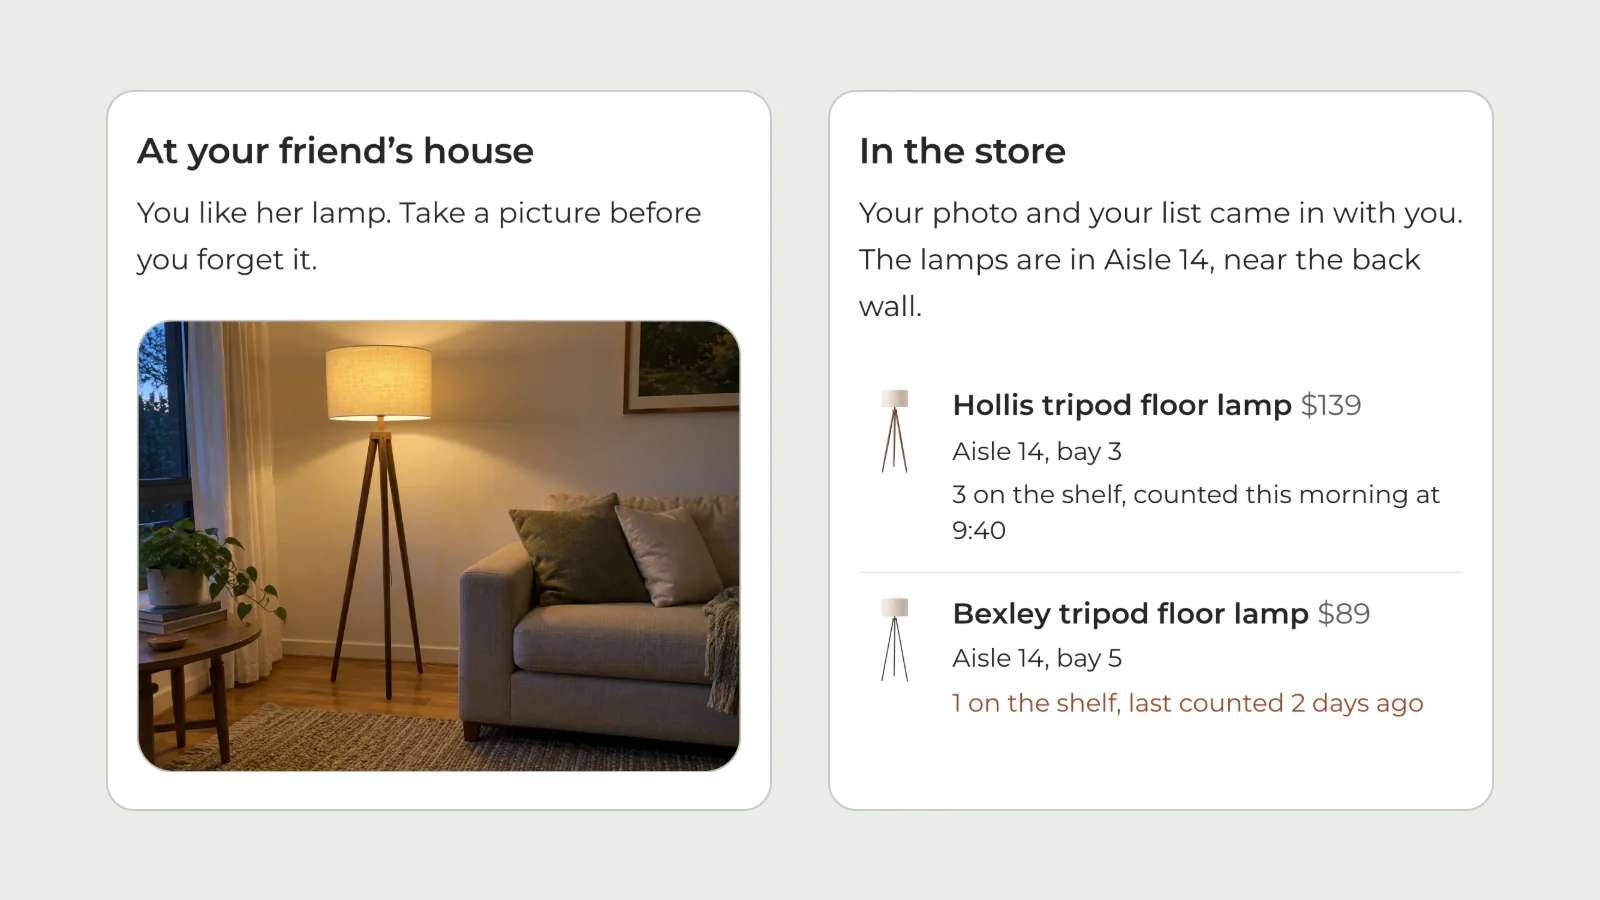
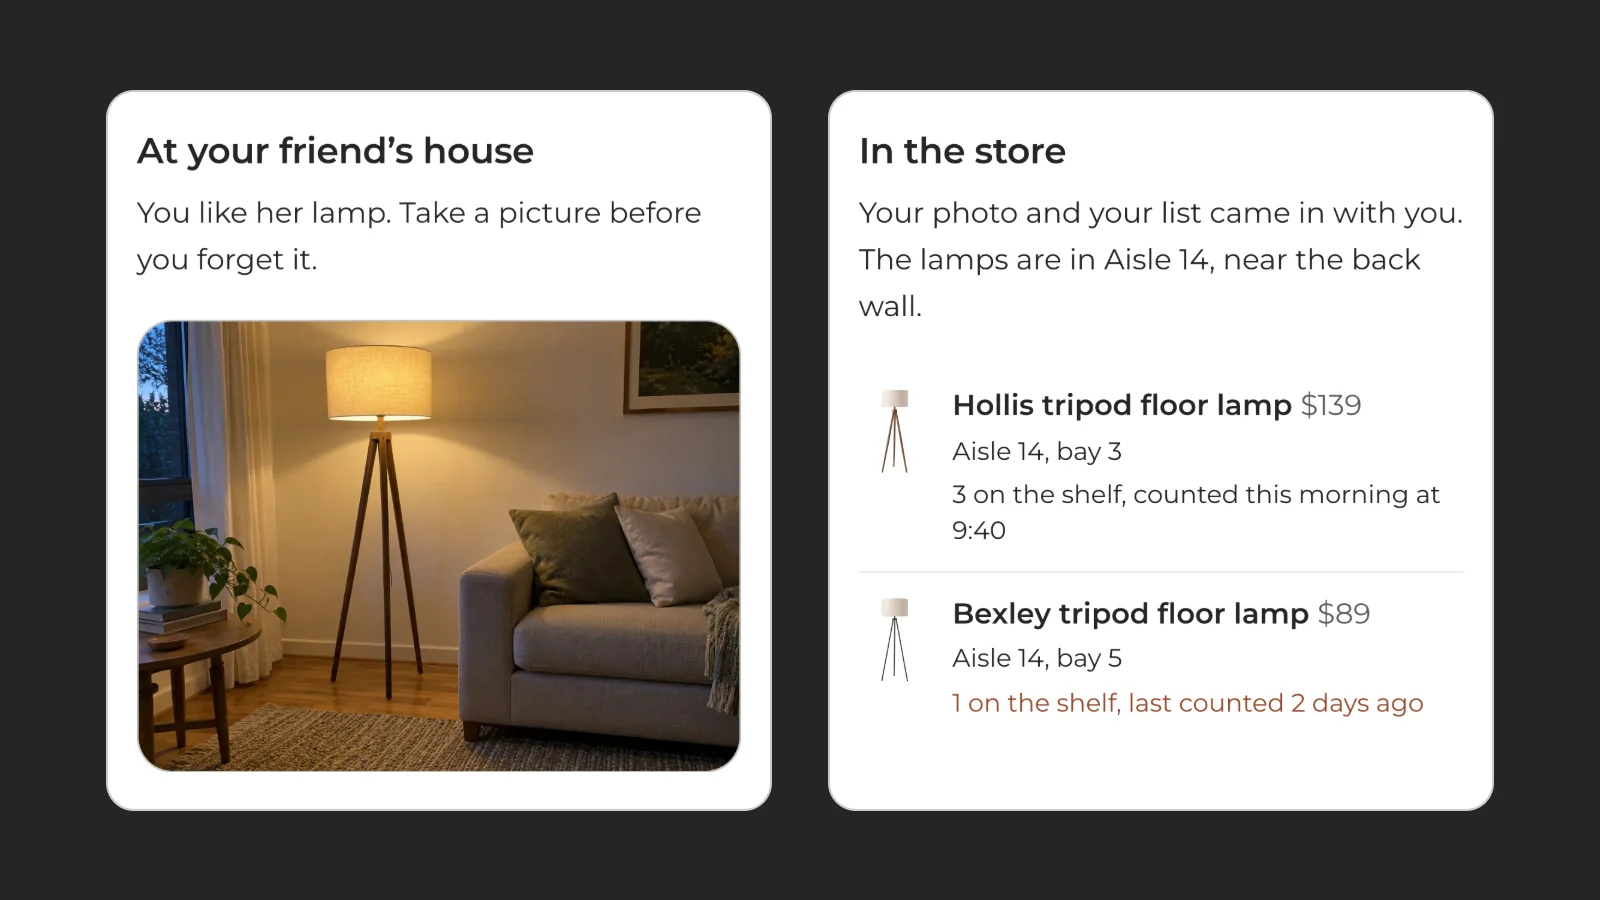
From Inspiration to Aisle's card picture sits on charcoal instead of tea-light, so the two lab panels on the homepage read as a pair beside Agent Review's dark screen. aisle-shots.mjs composes the card on --color-charcoal; the two white panels, their edge and shadow are unchanged. aisle-card.webp to

diff --git a/lab/index.html b/lab/index.html
@@ -298,7 +298,7 @@
                says so in its dek, as the page does in its first screen. -->
           <li class="writing-item">
             <a class="writing-link" href="inspiration-to-aisle.html">
-              <img class="writing-card" src="../img/lab/aisle-card.webp?v=4" width="1600" height="900" alt="" decoding="async" />
+              <img class="writing-card" src="../img/lab/aisle-card.webp?v=5" width="1600" height="900" alt="" decoding="async" />
               <div class="writing-text">
                 <h3 class="writing-title">From Inspiration to Aisle: one shopping trip, carried across phone, store, and person</h3>
                 <p class="writing-dek">A photo of a friend&rsquo;s lamp, four matches that say why, and a trip into a store with the context intact. An independent concept on sample data, not tested with shoppers yet.</p>

diff --git a/index.html b/index.html
@@ -999,7 +999,7 @@
                friend's and in the store, legible at half the section. -->
           <div class="case-card case-card--lab reveal">
             <a class="case-thumb case-thumb--ringed" href="lab/inspiration-to-aisle.html" aria-label="Read the Inspiration to Aisle case study: one shopping trip, from a friend&rsquo;s lamp to the store aisle">
-              <img decoding="async" loading="lazy" src="img/lab/aisle-card.webp?v=4" alt="" width="1600" height="900"/>
+              <img decoding="async" loading="lazy" src="img/lab/aisle-card.webp?v=5" alt="" width="1600" height="900"/>
             </a>
             <div class="case-card-body">
               <h3>One shopping trip, carried from a phone into the store.</h3>
